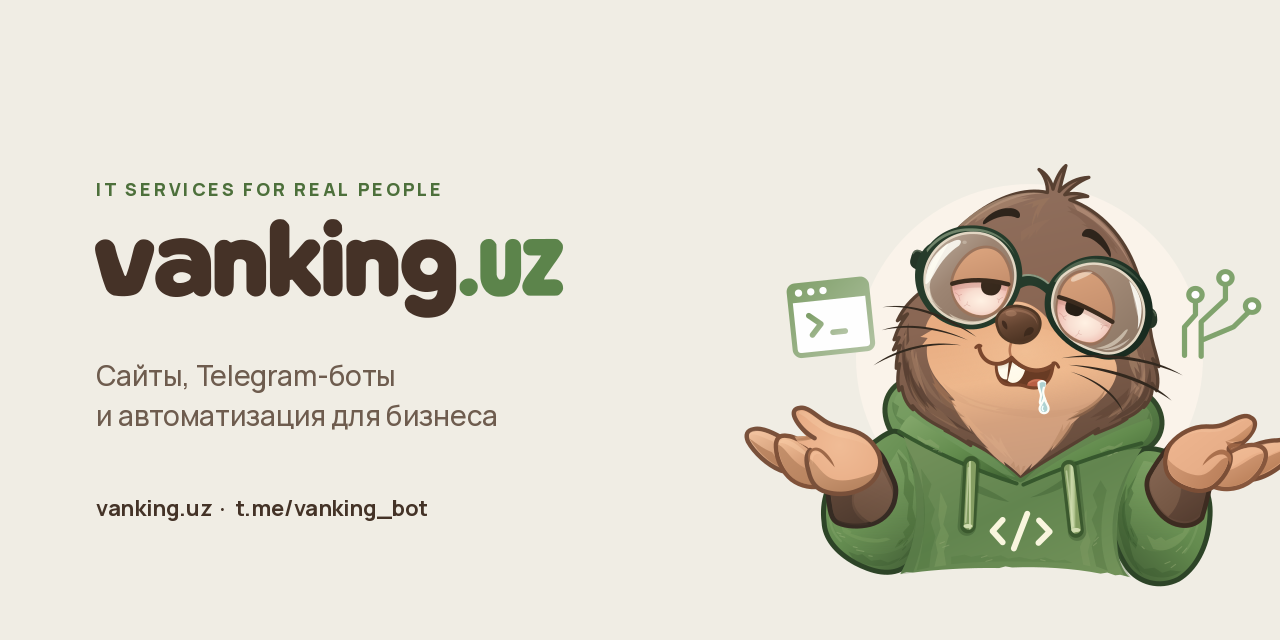
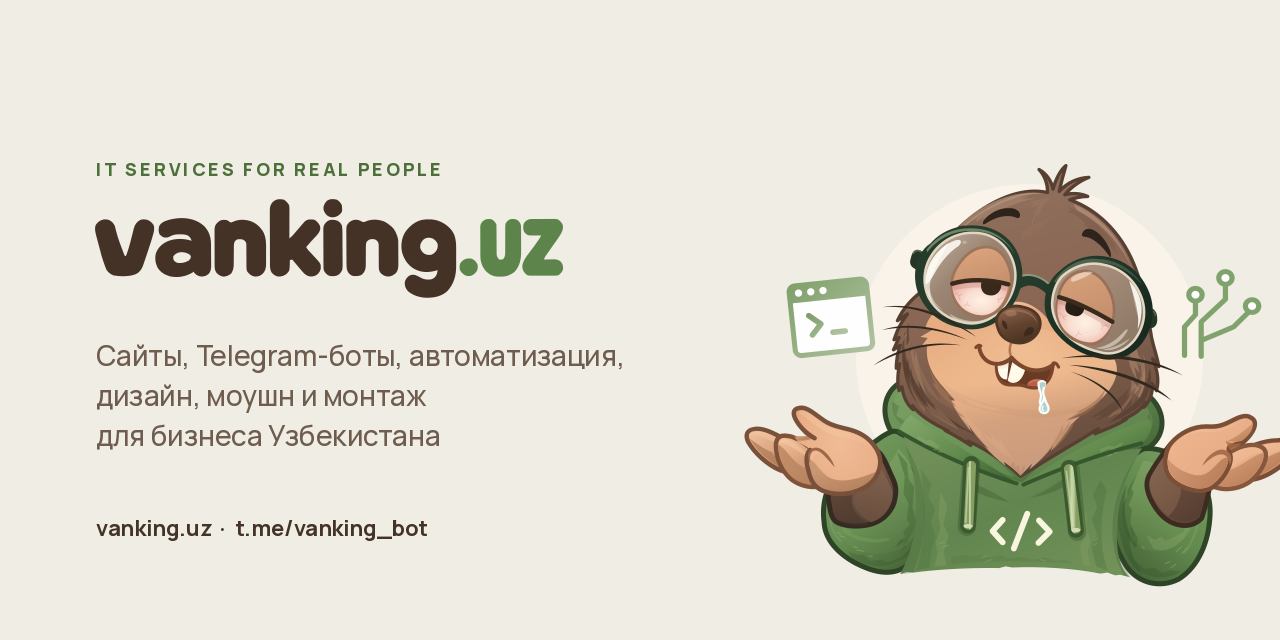
feat: add design/video services, showreel preview, tool stack and contacts
Phase A of the profile-v2 relaunch.

- «Что мы делаем»: new «Дизайн и видео» part (Дизайн; Моушн и монтаж),
  wording taken from exports/motion-showreel/STORYBOARD.md.
- «Шоурил»: looping 7.2 s preview of the showreel opening (1.2-8.4 s:
  title shatter, kinetic type, particles, liquid chrome, metaballs, Swiss
  grid, PARCER, neon), linked to https://vanking.uz/ru/services/motion-design,
  which already plays the full video (same file, sha256 d520cfea...2329),
  so no GitHub Release and no mp4 in git. Reduced-motion fallback: the
  official poster.
- «Инструменты»: 16 self-hosted SVG tiles (48x48, own background, readable
  on light and dark). Simple Icons 16.33.0 (CC0) has no Adobe icons, so
  Pr/Ae/Ai are drawn as two-letter marks in Adobe colours; Playwright from
  gilbarbara/logos (CC0); Remotion drawn; 1С mark from the studio's 1С promo.
- «Связаться»: заявки @vanking_bot, менеджер @vanking_uz, vanking.uz,
  wankinguz@gmail.com; footer RU · UZ kept.
- Image paths are relative (./assets/...). Live org pages (nrl-ai, fmhy,
  stacklok, papercomputeco) show GitHub rewrites relative img src and
  <source srcset> in profile/README.md to /<org>/.github/raw/<default>/profile/...
- social-preview.png regenerated (1280x640) with the full service subtitle.

Verified (execution):
- showreel-preview.webp: 960x540, 216 frames, 33/34 ms (7200 ms), loop 0,
  4 192 740 bytes; contact sheet and loop-seam frames inspected.
[…]

Changed region(s): [[0.0625, 0.25, 0.4375, 0.5], [0.0625, 0.5312, 0.5, 0.7188], [0.0625, 0.7812, 0.3438, 0.8438]]

diff --git a/profile/README.md b/profile/README.md
@@ -1,6 +1,6 @@
 <picture>
-  <source media="(prefers-color-scheme: dark)" srcset="https://github.com/Vanking-UZ/.github/raw/main/profile/assets/banner-dark.png">
-  <img alt="vanking.uz — сайты, Telegram-боты и автоматизация для бизнеса Узбекистана" src="https://github.com/Vanking-UZ/.github/raw/main/profile/assets/banner-light.png" width="100%">
+  <source media="(prefers-color-scheme: dark)" srcset="./assets/banner-dark.png">
+  <img alt="vanking.uz — сайты, Telegram-боты и автоматизация для бизнеса Узбекистана" src="./assets/banner-light.png" width="100%">
 </picture>
 
 ### Что мы делаем
@@ -9,10 +9,50 @@
 - **Telegram-боты.** Приём заявок, заказы, запись клиентов.
 - **Автоматизация.** Передача заявок в CRM, таблицы, уведомления.
 
+#### Дизайн и видео
+
+- **Дизайн.** Айдентика, графика для соцсетей, маскоты и персонажи.
+- **Моушн и монтаж.** Промо-ролики, продуктовые видео, анимированные логотипы, Reels и Shorts, UI-анимация. Монтаж роликов и рекламы.
+
 Работаем пакетами с понятным составом: заранее видно, что вы получите, что нужно от вас и как принимается результат. Нестандартные задачи оцениваем отдельно.
+
+### Шоурил
+
+<a href="https://vanking.uz/ru/services/motion-design">
+  <picture>
+    <source media="(prefers-reduced-motion: reduce)" srcset="./assets/showreel-poster.webp">
+    <img alt="Фрагмент шоурила vanking: кинетическая типографика, частицы, жидкий хром, морфинг форм, швейцарская сетка, продуктовый ролик, неон" src="./assets/showreel-preview.webp" width="100%">
+  </picture>
+</a>
+
+30 секунд, 24 стиля. Полная версия со звуком — на [vanking.uz](https://vanking.uz/ru/services/motion-design).
+
+### Инструменты
+
+<p>
+  <img src="./assets/stack/typescript.svg" width="40" height="40" alt="TypeScript" title="TypeScript">
+  <img src="./assets/stack/react.svg" width="40" height="40" alt="React" title="React">
+  <img src="./assets/stack/nextjs.svg" width="40" height="40" alt="Next.js" title="Next.js">
+  <img src="./assets/stack/payload.svg" width="40" height="40" alt="Payload CMS" title="Payload CMS">
+  <img src="./assets/stack/nodejs.svg" width="40" height="40" alt="Node.js" title="Node.js">
+  <img src="./assets/stack/python.svg" width="40" height="40" alt="Python" title="Python">
+  <img src="./assets/stack/telegram.svg" width="40" height="40" alt="Telegram Bot API" title="Telegram Bot API">
+  <img src="./assets/stack/dotnet.svg" width="40" height="40" alt="C# / .NET" title="C# / .NET">
+  <img src="./assets/stack/playwright.svg" width="40" height="40" alt="Playwright" title="Playwright">
+  <img src="./assets/stack/1c.svg" width="40" height="40" alt="1С" title="1С">
+  <img src="./assets/stack/figma.svg" width="40" height="40" alt="Figma" title="Figma">
+  <img src="./assets/stack/illustrator.svg" width="40" height="40" alt="Adobe Illustrator" title="Adobe Illustrator">
+  <img src="./assets/stack/after-effects.svg" width="40" height="40" alt="Adobe After Effects" title="Adobe After Effects">
+  <img src="./assets/stack/premiere-pro.svg" width="40" height="40" alt="Adobe Premiere Pro" title="Adobe Premiere Pro">
+  <img src="./assets/stack/blender.svg" width="40" height="40" alt="Blender" title="Blender">
+  <img src="./assets/stack/remotion.svg" width="40" height="40" alt="Remotion" title="Remotion">
+</p>
 
 ### Связаться
 
-[vanking.uz](https://vanking.uz) · Telegram [@vanking_bot](https://t.me/vanking_bot)
+- **Заявки:** Telegram-бот [@vanking_bot](https://t.me/vanking_bot)
+- **Менеджер:** [@vanking_uz](https://t.me/vanking_uz) в Telegram
+- **Сайт:** [vanking.uz](https://vanking.uz)
+- **Почта:** [wankinguz@gmail.com](mailto:wankinguz@gmail.com)
 
 <sub>RU · UZ</sub>
